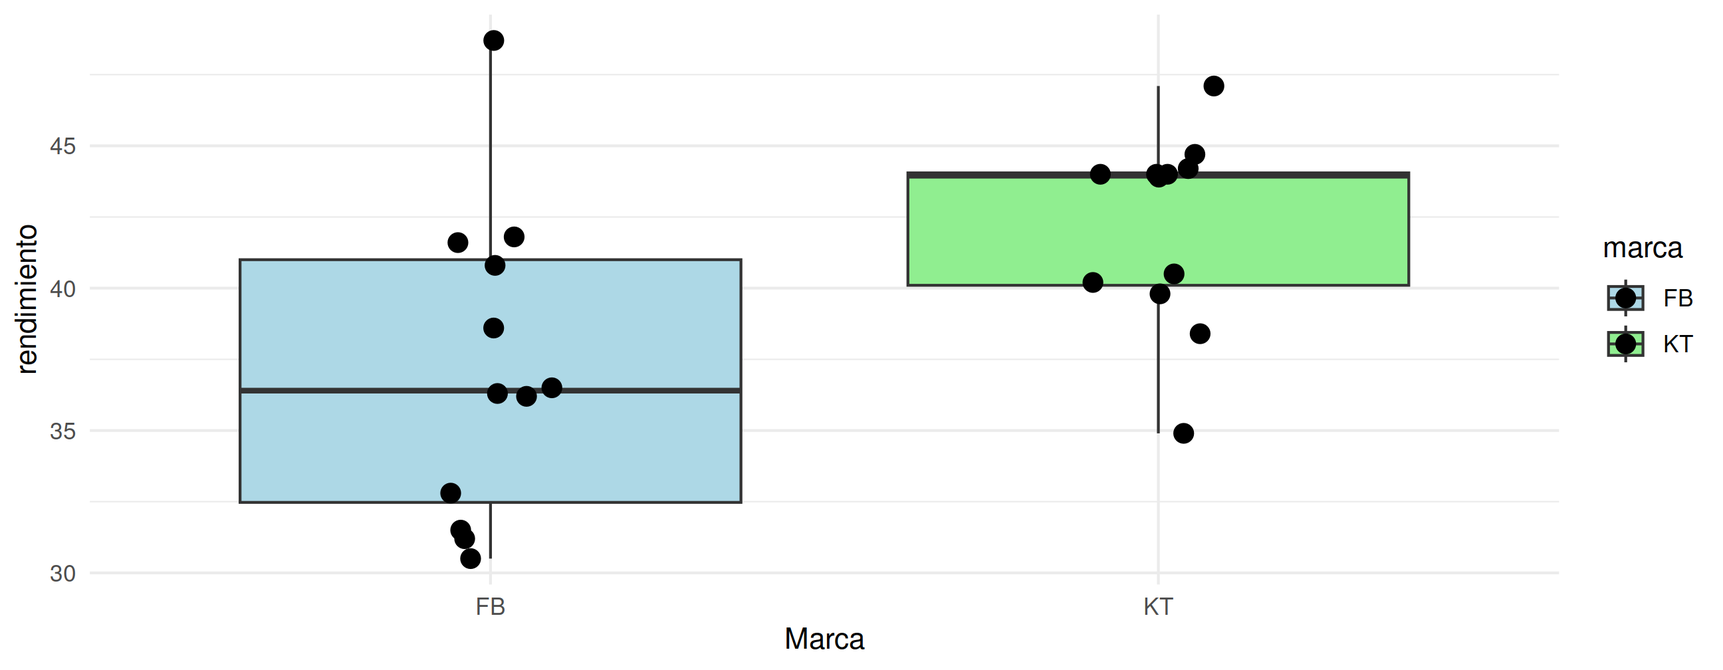
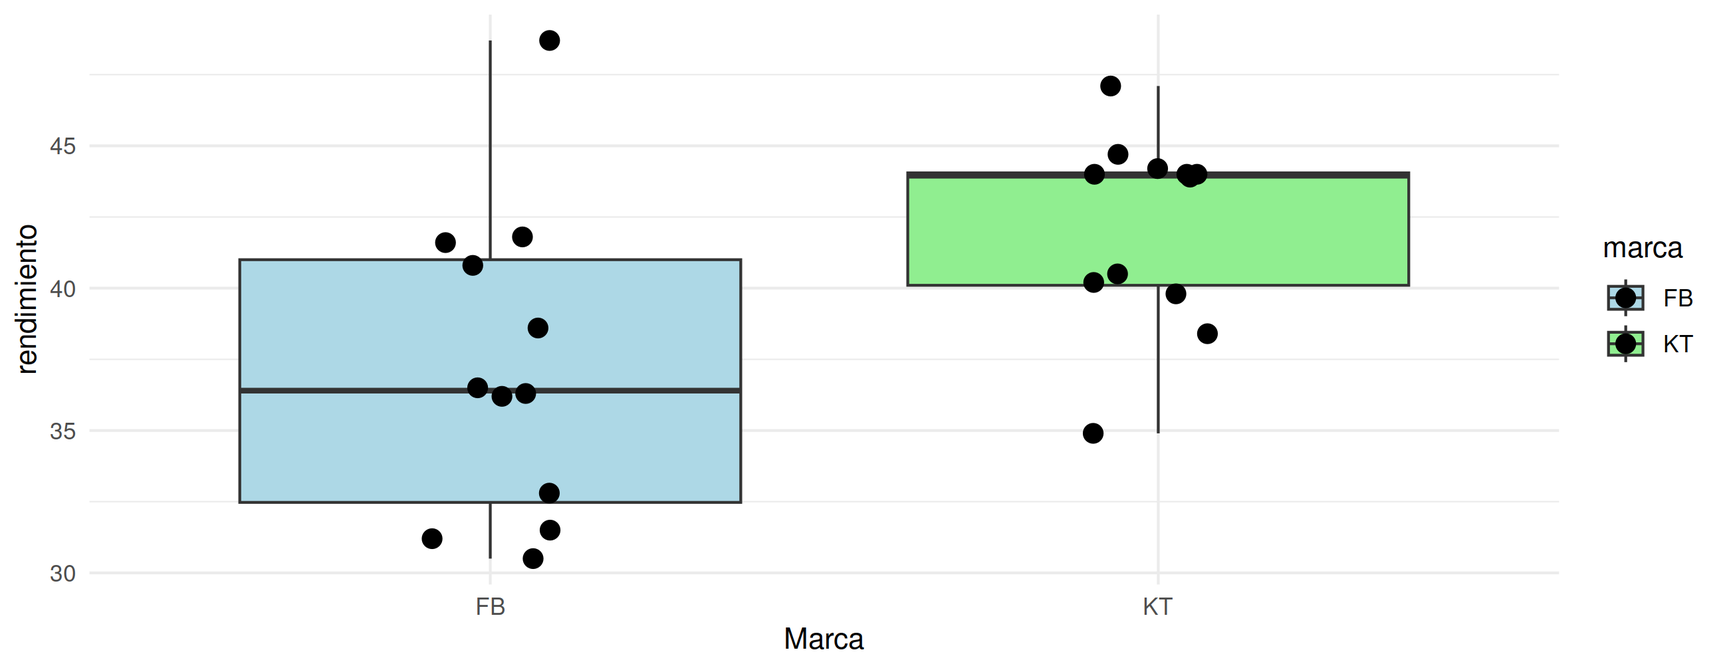
ajustes taller 431

diff --git a/docs/codigo12.html b/docs/codigo12.html
@@ -653,7 +653,7 @@ ft1 &lt;- ft1 %&gt;%
     width(j = 1,  width = 2) %&gt;%
     width(j = 2, width = 1)
 ft1</code></pre>
-<div class="tabwid"><style>.cl-ca4f9e02{}.cl-ca4ad46c{font-family:'DejaVu Sans';font-size:11pt;font-weight:normal;font-style:normal;text-decoration:none;color:rgba(0, 0, 0, 1.00);background-color:transparent;}.cl-ca4d700a{margin:0;text-align:left;border-bottom: 0 solid rgba(0, 0, 0, 1.00);border-top: 0 solid rgba(0, 0, 0, 1.00);border-left: 0 solid rgba(0, 0, 0, 1.00);border-right: 0 solid rgba(0, 0, 0, 1.00);padding-bottom:5pt;padding-top:5pt;padding-left:5pt;padding-right:5pt;line-height: 1;background-color:transparent;}.cl-ca4d701e{margin:0;text-align:right;border-bottom: 0 solid rgba(0, 0, 0, 1.00);border-top: 0 solid rgba(0, 0, 0, 1.00);border-left: 0 solid rgba(0, 0, 0, 1.00);border-right: 0 solid rgba(0, 0, 0, 1.00);padding-bottom:5pt;padding-top:5pt;padding-left:5pt;padding-right:5pt;line-height: 1;background-color:transparent;}.cl-ca4d827a{width:2in;background-color:transparent;vertical-align: middle;border-bottom: 1.5pt solid rgba(102, 102, 102, 1.00);border-top: 1.5pt solid rgba(102, 102, 102, 1.00);border-left: 0 solid rgba(0, 0, 0, 1.00);border-right: 0 solid rgba(0, 0, 0, 1.00);margin-bottom:0;margin-top:0;margin-left:0;margin-right:0;}.cl-ca4d827b{width:1in;background-color:transparent;vertical-align: middle;border-bottom: 1.5pt solid rgba(102, 102, 102, 1.00);border-top: 1.5pt solid rgba(102, 102, 102, 1.00);border-left: 0 solid rgba(0, 0, 0, 1.00);border-right: 0 solid rgba(0, 0, 0, 1.00);margin-bottom:0;margin-top:0;margin-left:0;margin-right:0;}.cl-ca4d8284{width:2in;background-color:transparent;vertical-align: middle;border-bottom: 0 solid rgba(0, 0, 0, 1.00);border-top: 0 solid rgba(0, 0, 0, 1.00);border-left: 0 solid rgba(0, 0, 0, 1.00);border-right: 0 solid rgba(0, 0, 0, 1.00);margin-bottom:0;margin-top:0;margin-left:0;margin-right:0;}.cl-ca4d8285{width:1in;background-color:transparent;vertical-align: middle;border-bottom: 0 solid rgba(0, 0, 0, 1.00);border-top: 0 solid rgba(0, 0, 0, 1.00);border-left: 0 solid rgba(0, 0, 0, 1.00);border-right: 0 solid rgba(0, 0, 0, 1.00);margin-bottom:0;margin-top:0;margin-left:0;margin-right:0;}.cl-ca4d828e{width:2in;background-color:transparent;vertical-align: middle;border-bottom: 1.5pt solid rgba(102, 102, 102, 1.00);border-top: 0 solid rgba(0, 0, 0, 1.00);border-left: 0 solid rgba(0, 0, 0, 1.00);border-right: 0 solid rgba(0, 0, 0, 1.00);margin-bottom:0;margin-top:0;margin-left:0;margin-right:0;}.cl-ca4d828f{width:1in;background-color:transparent;vertical-align: middle;border-bottom: 1.5pt solid rgba(102, 102, 102, 1.00);border-top: 0 solid rgba(0, 0, 0, 1.00);border-left: 0 solid rgba(0, 0, 0, 1.00);border-right: 0 solid rgba(0, 0, 0, 1.00);margin-bottom:0;margin-top:0;margin-left:0;margin-right:0;}</style><table data-quarto-disable-processing='true' class='cl-ca4f9e02'><thead><tr style="overflow-wrap:break-word;"><th class="cl-ca4d827a"><p class="cl-ca4d700a"><span class="cl-ca4ad46c">Tipo de tarjeta</span></p></th><th class="cl-ca4d827b"><p class="cl-ca4d701e"><span class="cl-ca4ad46c">Frecuencia Absoluta</span></p></th></tr></thead><tbody><tr style="overflow-wrap:break-word;"><td class="cl-ca4d8284"><p class="cl-ca4d700a"><span class="cl-ca4ad46c">American Express</span></p></td><td class="cl-ca4d8285"><p class="cl-ca4d701e"><span class="cl-ca4ad46c">4</span></p></td></tr><tr style="overflow-wrap:break-word;"><td class="cl-ca4d8284"><p class="cl-ca4d700a"><span class="cl-ca4ad46c">Discover</span></p></td><td class="cl-ca4d8285"><p class="cl-ca4d701e"><span class="cl-ca4ad46c">8</span></p></td></tr><tr style="overflow-wrap:break-word;"><td class="cl-ca4d8284"><p class="cl-ca4d700a"><span class="cl-ca4ad46c">MasterCard</span></p></td><td class="cl-ca4d8285"><p class="cl-ca4d701e"><span class="cl-ca4ad46c">28</span></p></td></tr><tr style="overflow-wrap:break-word;"><td class="cl-ca4d8284"><p class="cl-ca4d700a"><span class="cl-ca4ad46c">Star Card</span></p></td><td class="cl-ca4d8285"><p class="cl-ca4d701e"><span class="cl-ca4ad46c">140</span></p></td></tr><tr style="overflow-wrap:break-word;"><td class="cl-ca4d828e"><p class="cl-ca4d700a"><span class="cl-ca4ad46c">Visa</span></p></td><td class="cl-ca4d828f"><p class="cl-ca4d701e"><span class="cl-ca4ad46c">20</span></p></td></tr></tbody></table></div>
+<div class="tabwid"><style>.cl-b287e0b0{}.cl-b28361e8{font-family:'DejaVu Sans';font-size:11pt;font-weight:normal;font-style:normal;text-decoration:none;color:rgba(0, 0, 0, 1.00);background-color:transparent;}.cl-b285dcd4{margin:0;text-align:left;border-bottom: 0 solid rgba(0, 0, 0, 1.00);border-top: 0 solid rgba(0, 0, 0, 1.00);border-left: 0 solid rgba(0, 0, 0, 1.00);border-right: 0 solid rgba(0, 0, 0, 1.00);padding-bottom:5pt;padding-top:5pt;padding-left:5pt;padding-right:5pt;line-height: 1;background-color:transparent;}.cl-b285dcde{margin:0;text-align:right;border-bottom: 0 solid rgba(0, 0, 0, 1.00);border-top: 0 solid rgba(0, 0, 0, 1.00);border-left: 0 solid rgba(0, 0, 0, 1.00);border-right: 0 solid rgba(0, 0, 0, 1.00);padding-bottom:5pt;padding-top:5pt;padding-left:5pt;padding-right:5pt;line-height: 1;background-color:transparent;}.cl-b285ed50{width:2in;background-color:transparent;vertical-align: middle;border-bottom: 1.5pt solid rgba(102, 102, 102, 1.00);border-top: 1.5pt solid rgba(102, 102, 102, 1.00);border-left: 0 solid rgba(0, 0, 0, 1.00);border-right: 0 solid rgba(0, 0, 0, 1.00);margin-bottom:0;margin-top:0;margin-left:0;margin-right:0;}.cl-b285ed51{width:1in;background-color:transparent;vertical-align: middle;border-bottom: 1.5pt solid rgba(102, 102, 102, 1.00);border-top: 1.5pt solid rgba(102, 102, 102, 1.00);border-left: 0 solid rgba(0, 0, 0, 1.00);border-right: 0 solid rgba(0, 0, 0, 1.00);margin-bottom:0;margin-top:0;margin-left:0;margin-right:0;}.cl-b285ed5a{width:2in;background-color:transparent;vertical-align: middle;border-bottom: 0 solid rgba(0, 0, 0, 1.00);border-top: 0 solid rgba(0, 0, 0, 1.00);border-left: 0 solid rgba(0, 0, 0, 1.00);border-right: 0 solid rgba(0, 0, 0, 1.00);margin-bottom:0;margin-top:0;margin-left:0;margin-right:0;}.cl-b285ed5b{width:1in;background-color:transparent;vertical-align: middle;border-bottom: 0 solid rgba(0, 0, 0, 1.00);border-top: 0 solid rgba(0, 0, 0, 1.00);border-left: 0 solid rgba(0, 0, 0, 1.00);border-right: 0 solid rgba(0, 0, 0, 1.00);margin-bottom:0;margin-top:0;margin-left:0;margin-right:0;}.cl-b285ed64{width:2in;background-color:transparent;vertical-align: middle;border-bottom: 1.5pt solid rgba(102, 102, 102, 1.00);border-top: 0 solid rgba(0, 0, 0, 1.00);border-left: 0 solid rgba(0, 0, 0, 1.00);border-right: 0 solid rgba(0, 0, 0, 1.00);margin-bottom:0;margin-top:0;margin-left:0;margin-right:0;}.cl-b285ed65{width:1in;background-color:transparent;vertical-align: middle;border-bottom: 1.5pt solid rgba(102, 102, 102, 1.00);border-top: 0 solid rgba(0, 0, 0, 1.00);border-left: 0 solid rgba(0, 0, 0, 1.00);border-right: 0 solid rgba(0, 0, 0, 1.00);margin-bottom:0;margin-top:0;margin-left:0;margin-right:0;}</style><table data-quarto-disable-processing='true' class='cl-b287e0b0'><thead><tr style="overflow-wrap:break-word;"><th class="cl-b285ed50"><p class="cl-b285dcd4"><span class="cl-b28361e8">Tipo de tarjeta</span></p></th><th class="cl-b285ed51"><p class="cl-b285dcde"><span class="cl-b28361e8">Frecuencia Absoluta</span></p></th></tr></thead><tbody><tr style="overflow-wrap:break-word;"><td class="cl-b285ed5a"><p class="cl-b285dcd4"><span class="cl-b28361e8">American Express</span></p></td><td class="cl-b285ed5b"><p class="cl-b285dcde"><span class="cl-b28361e8">4</span></p></td></tr><tr style="overflow-wrap:break-word;"><td class="cl-b285ed5a"><p class="cl-b285dcd4"><span class="cl-b28361e8">Discover</span></p></td><td class="cl-b285ed5b"><p class="cl-b285dcde"><span class="cl-b28361e8">8</span></p></td></tr><tr style="overflow-wrap:break-word;"><td class="cl-b285ed5a"><p class="cl-b285dcd4"><span class="cl-b28361e8">MasterCard</span></p></td><td class="cl-b285ed5b"><p class="cl-b285dcde"><span class="cl-b28361e8">28</span></p></td></tr><tr style="overflow-wrap:break-word;"><td class="cl-b285ed5a"><p class="cl-b285dcd4"><span class="cl-b28361e8">Star Card</span></p></td><td class="cl-b285ed5b"><p class="cl-b285dcde"><span class="cl-b28361e8">140</span></p></td></tr><tr style="overflow-wrap:break-word;"><td class="cl-b285ed64"><p class="cl-b285dcd4"><span class="cl-b28361e8">Visa</span></p></td><td class="cl-b285ed65"><p class="cl-b285dcde"><span class="cl-b28361e8">20</span></p></td></tr></tbody></table></div>
 <p><br/></p>
 <p>El resultado corresponde a un conteo de cada uno de los valores de la
 variable. En caso de que se requiera calcular la proporción que
@@ -678,7 +678,7 @@ ft2 &lt;- ft2 %&gt;%
     width(j = 1,  width = 2) %&gt;%
     width(j = 2, width = 1)
 ft2</code></pre>
-<div class="tabwid"><style>.cl-ca67009c{}.cl-ca57e9b8{font-family:'Helvetica';font-size:10pt;font-weight:normal;font-style:normal;text-decoration:none;color:rgba(51, 51, 51, 1.00);background-color:transparent;}.cl-ca655e5e{margin:0;text-align:left;border-bottom: 0 solid rgba(0, 0, 0, 1.00);border-top: 0 solid rgba(0, 0, 0, 1.00);border-left: 0 solid rgba(0, 0, 0, 1.00);border-right: 0 solid rgba(0, 0, 0, 1.00);padding-bottom:3pt;padding-top:3pt;padding-left:4pt;padding-right:4pt;line-height: 1;background-color:transparent;}.cl-ca655e68{margin:0;text-align:right;border-bottom: 0 solid rgba(0, 0, 0, 1.00);border-top: 0 solid rgba(0, 0, 0, 1.00);border-left: 0 solid rgba(0, 0, 0, 1.00);border-right: 0 solid rgba(0, 0, 0, 1.00);padding-bottom:3pt;padding-top:3pt;padding-left:4pt;padding-right:4pt;line-height: 1;background-color:transparent;}.cl-ca656c46{width:2in;background-color:transparent;vertical-align: middle;border-bottom: 1.5pt solid rgba(190, 190, 190, 1.00);border-top: 1.5pt solid rgba(190, 190, 190, 1.00);border-left: 0 solid rgba(0, 0, 0, 1.00);border-right: 0 solid rgba(0, 0, 0, 1.00);margin-bottom:0;margin-top:0;margin-left:0;margin-right:0;}.cl-ca656c47{width:1in;background-color:transparent;vertical-align: middle;border-bottom: 1.5pt solid rgba(190, 190, 190, 1.00);border-top: 1.5pt solid rgba(190, 190, 190, 1.00);border-left: 0 solid rgba(0, 0, 0, 1.00);border-right: 0 solid rgba(0, 0, 0, 1.00);margin-bottom:0;margin-top:0;margin-left:0;margin-right:0;}.cl-ca656c48{width:2in;background-color:transparent;vertical-align: middle;border-bottom: 0 solid rgba(0, 0, 0, 1.00);border-top: 0 solid rgba(0, 0, 0, 1.00);border-left: 0 solid rgba(0, 0, 0, 1.00);border-right: 0 solid rgba(0, 0, 0, 1.00);margin-bottom:0;margin-top:0;margin-left:0;margin-right:0;}.cl-ca656c50{width:1in;background-color:transparent;vertical-align: middle;border-bottom: 0 solid rgba(0, 0, 0, 1.00);border-top: 0 solid rgba(0, 0, 0, 1.00);border-left: 0 solid rgba(0, 0, 0, 1.00);border-right: 0 solid rgba(0, 0, 0, 1.00);margin-bottom:0;margin-top:0;margin-left:0;margin-right:0;}.cl-ca656c51{width:2in;background-color:transparent;vertical-align: middle;border-bottom: 1.5pt solid rgba(190, 190, 190, 1.00);border-top: 0 solid rgba(0, 0, 0, 1.00);border-left: 0 solid rgba(0, 0, 0, 1.00);border-right: 0 solid rgba(0, 0, 0, 1.00);margin-bottom:0;margin-top:0;margin-left:0;margin-right:0;}.cl-ca656c5a{width:1in;background-color:transparent;vertical-align: middle;border-bottom: 1.5pt solid rgba(190, 190, 190, 1.00);border-top: 0 solid rgba(0, 0, 0, 1.00);border-left: 0 solid rgba(0, 0, 0, 1.00);border-right: 0 solid rgba(0, 0, 0, 1.00);margin-bottom:0;margin-top:0;margin-left:0;margin-right:0;}</style><table data-quarto-disable-processing='true' class='cl-ca67009c'><thead><tr style="overflow-wrap:break-word;"><th class="cl-ca656c46"><p class="cl-ca655e5e"><span class="cl-ca57e9b8">Tipo de tarjeta</span></p></th><th class="cl-ca656c47"><p class="cl-ca655e68"><span class="cl-ca57e9b8">Frecuencia relativa</span></p></th></tr></thead><tbody><tr style="overflow-wrap:break-word;"><td class="cl-ca656c48"><p class="cl-ca655e5e"><span class="cl-ca57e9b8">American Express</span></p></td><td class="cl-ca656c50"><p class="cl-ca655e68"><span class="cl-ca57e9b8">0.02</span></p></td></tr><tr style="overflow-wrap:break-word;"><td class="cl-ca656c48"><p class="cl-ca655e5e"><span class="cl-ca57e9b8">Discover</span></p></td><td class="cl-ca656c50"><p class="cl-ca655e68"><span class="cl-ca57e9b8">0.04</span></p></td></tr><tr style="overflow-wrap:break-word;"><td class="cl-ca656c48"><p class="cl-ca655e5e"><span class="cl-ca57e9b8">MasterCard</span></p></td><td class="cl-ca656c50"><p class="cl-ca655e68"><span class="cl-ca57e9b8">0.14</span></p></td></tr><tr style="overflow-wrap:break-word;"><td class="cl-ca656c48"><p class="cl-ca655e5e"><span class="cl-ca57e9b8">Star Card</span></p></td><td class="cl-ca656c50"><p class="cl-ca655e68"><span class="cl-ca57e9b8">0.70</span></p></td></tr><tr style="overflow-wrap:break-word;"><td class="cl-ca656c51"><p class="cl-ca655e5e"><span class="cl-ca57e9b8">Visa</span></p></td><td class="cl-ca656c5a"><p class="cl-ca655e68"><span class="cl-ca57e9b8">0.10</span></p></td></tr></tbody></table></div>
+<div class="tabwid"><style>.cl-b29e0ce6{}.cl-b28f1718{font-family:'Helvetica';font-size:10pt;font-weight:normal;font-style:normal;text-decoration:none;color:rgba(51, 51, 51, 1.00);background-color:transparent;}.cl-b29c76b0{margin:0;text-align:left;border-bottom: 0 solid rgba(0, 0, 0, 1.00);border-top: 0 solid rgba(0, 0, 0, 1.00);border-left: 0 solid rgba(0, 0, 0, 1.00);border-right: 0 solid rgba(0, 0, 0, 1.00);padding-bottom:3pt;padding-top:3pt;padding-left:4pt;padding-right:4pt;line-height: 1;background-color:transparent;}.cl-b29c76ba{margin:0;text-align:right;border-bottom: 0 solid rgba(0, 0, 0, 1.00);border-top: 0 solid rgba(0, 0, 0, 1.00);border-left: 0 solid rgba(0, 0, 0, 1.00);border-right: 0 solid rgba(0, 0, 0, 1.00);padding-bottom:3pt;padding-top:3pt;padding-left:4pt;padding-right:4pt;line-height: 1;background-color:transparent;}.cl-b29c848e{width:2in;background-color:transparent;vertical-align: middle;border-bottom: 1.5pt solid rgba(190, 190, 190, 1.00);border-top: 1.5pt solid rgba(190, 190, 190, 1.00);border-left: 0 solid rgba(0, 0, 0, 1.00);border-right: 0 solid rgba(0, 0, 0, 1.00);margin-bottom:0;margin-top:0;margin-left:0;margin-right:0;}.cl-b29c848f{width:1in;background-color:transparent;vertical-align: middle;border-bottom: 1.5pt solid rgba(190, 190, 190, 1.00);border-top: 1.5pt solid rgba(190, 190, 190, 1.00);border-left: 0 solid rgba(0, 0, 0, 1.00);border-right: 0 solid rgba(0, 0, 0, 1.00);margin-bottom:0;margin-top:0;margin-left:0;margin-right:0;}.cl-b29c8498{width:2in;background-color:transparent;vertical-align: middle;border-bottom: 0 solid rgba(0, 0, 0, 1.00);border-top: 0 solid rgba(0, 0, 0, 1.00);border-left: 0 solid rgba(0, 0, 0, 1.00);border-right: 0 solid rgba(0, 0, 0, 1.00);margin-bottom:0;margin-top:0;margin-left:0;margin-right:0;}.cl-b29c8499{width:1in;background-color:transparent;vertical-align: middle;border-bottom: 0 solid rgba(0, 0, 0, 1.00);border-top: 0 solid rgba(0, 0, 0, 1.00);border-left: 0 solid rgba(0, 0, 0, 1.00);border-right: 0 solid rgba(0, 0, 0, 1.00);margin-bottom:0;margin-top:0;margin-left:0;margin-right:0;}.cl-b29c849a{width:2in;background-color:transparent;vertical-align: middle;border-bottom: 1.5pt solid rgba(190, 190, 190, 1.00);border-top: 0 solid rgba(0, 0, 0, 1.00);border-left: 0 solid rgba(0, 0, 0, 1.00);border-right: 0 solid rgba(0, 0, 0, 1.00);margin-bottom:0;margin-top:0;margin-left:0;margin-right:0;}.cl-b29c84a2{width:1in;background-color:transparent;vertical-align: middle;border-bottom: 1.5pt solid rgba(190, 190, 190, 1.00);border-top: 0 solid rgba(0, 0, 0, 1.00);border-left: 0 solid rgba(0, 0, 0, 1.00);border-right: 0 solid rgba(0, 0, 0, 1.00);margin-bottom:0;margin-top:0;margin-left:0;margin-right:0;}</style><table data-quarto-disable-processing='true' class='cl-b29e0ce6'><thead><tr style="overflow-wrap:break-word;"><th class="cl-b29c848e"><p class="cl-b29c76b0"><span class="cl-b28f1718">Tipo de tarjeta</span></p></th><th class="cl-b29c848f"><p class="cl-b29c76ba"><span class="cl-b28f1718">Frecuencia relativa</span></p></th></tr></thead><tbody><tr style="overflow-wrap:break-word;"><td class="cl-b29c8498"><p class="cl-b29c76b0"><span class="cl-b28f1718">American Express</span></p></td><td class="cl-b29c8499"><p class="cl-b29c76ba"><span class="cl-b28f1718">0.02</span></p></td></tr><tr style="overflow-wrap:break-word;"><td class="cl-b29c8498"><p class="cl-b29c76b0"><span class="cl-b28f1718">Discover</span></p></td><td class="cl-b29c8499"><p class="cl-b29c76ba"><span class="cl-b28f1718">0.04</span></p></td></tr><tr style="overflow-wrap:break-word;"><td class="cl-b29c8498"><p class="cl-b29c76b0"><span class="cl-b28f1718">MasterCard</span></p></td><td class="cl-b29c8499"><p class="cl-b29c76ba"><span class="cl-b28f1718">0.14</span></p></td></tr><tr style="overflow-wrap:break-word;"><td class="cl-b29c8498"><p class="cl-b29c76b0"><span class="cl-b28f1718">Star Card</span></p></td><td class="cl-b29c8499"><p class="cl-b29c76ba"><span class="cl-b28f1718">0.70</span></p></td></tr><tr style="overflow-wrap:break-word;"><td class="cl-b29c849a"><p class="cl-b29c76b0"><span class="cl-b28f1718">Visa</span></p></td><td class="cl-b29c84a2"><p class="cl-b29c76ba"><span class="cl-b28f1718">0.10</span></p></td></tr></tbody></table></div>
 <p><br/></p>
 <p>Si utilizamos la función <code>freq</code> del paquete
 <code>summarytools</code>, la salida es una tabla más elaborada</p>
@@ -1032,7 +1032,7 @@ df</code></pre>
 <pre class="r"><code># colnames(df1)=c(&quot;Id&quot;, &quot;Nombre&quot;, &quot;Edad&quot;,&quot;grado&quot;, &quot;Nota1&quot;, &quot;Nota2&quot;, &quot;Nota_Final&quot;, &quot;Entrevista&quot;)
 df1=flextable(df)
 df1</code></pre>
-<div class="tabwid"><style>.cl-ca96bb84{}.cl-ca93445e{font-family:'Helvetica';font-size:10pt;font-weight:normal;font-style:normal;text-decoration:none;color:rgba(51, 51, 51, 1.00);background-color:transparent;}.cl-ca94b906{margin:0;text-align:right;border-bottom: 0 solid rgba(0, 0, 0, 1.00);border-top: 0 solid rgba(0, 0, 0, 1.00);border-left: 0 solid rgba(0, 0, 0, 1.00);border-right: 0 solid rgba(0, 0, 0, 1.00);padding-bottom:3pt;padding-top:3pt;padding-left:4pt;padding-right:4pt;line-height: 1;background-color:transparent;}.cl-ca94b91a{margin:0;text-align:left;border-bottom: 0 solid rgba(0, 0, 0, 1.00);border-top: 0 solid rgba(0, 0, 0, 1.00);border-left: 0 solid rgba(0, 0, 0, 1.00);border-right: 0 solid rgba(0, 0, 0, 1.00);padding-bottom:3pt;padding-top:3pt;padding-left:4pt;padding-right:4pt;line-height: 1;background-color:transparent;}.cl-ca94c964{width:0.75in;background-color:transparent;vertical-align: middle;border-bottom: 1.5pt solid rgba(190, 190, 190, 1.00);border-top: 1.5pt solid rgba(190, 190, 190, 1.00);border-left: 0 solid rgba(0, 0, 0, 1.00);border-right: 0 solid rgba(0, 0, 0, 1.00);margin-bottom:0;margin-top:0;margin-left:0;margin-right:0;}.cl-ca94c96e{width:0.75in;background-color:transparent;vertical-align: middle;border-bottom: 1.5pt solid rgba(190, 190, 190, 1.00);border-top: 1.5pt solid rgba(190, 190, 190, 1.00);border-left: 0 solid rgba(0, 0, 0, 1.00);border-right: 0 solid rgba(0, 0, 0, 1.00);margin-bottom:0;margin-top:0;margin-left:0;margin-right:0;}.cl-ca94c96f{width:0.75in;background-color:transparent;vertical-align: middle;border-bottom: 0 solid rgba(0, 0, 0, 1.00);border-top: 0 solid rgba(0, 0, 0, 1.00);border-left: 0 solid rgba(0, 0, 0, 1.00);border-right: 0 solid rgba(0, 0, 0, 1.00);margin-bottom:0;margin-top:0;margin-left:0;margin-right:0;}.cl-ca94c978{width:0.75in;background-color:transparent;vertical-align: middle;border-bottom: 0 solid rgba(0, 0, 0, 1.00);border-top: 0 solid rgba(0, 0, 0, 1.00);border-left: 0 solid rgba(0, 0, 0, 1.00);border-right: 0 solid rgba(0, 0, 0, 1.00);margin-bottom:0;margin-top:0;margin-left:0;margin-right:0;}.cl-ca94c979{width:0.75in;background-color:transparent;vertical-align: middle;border-bottom: 1.5pt solid rgba(190, 190, 190, 1.00);border-top: 0 solid rgba(0, 0, 0, 1.00);border-left: 0 solid rgba(0, 0, 0, 1.00);border-right: 0 solid rgba(0, 0, 0, 1.00);margin-bottom:0;margin-top:0;margin-left:0;margin-right:0;}.cl-ca94c97a{width:0.75in;background-color:transparent;vertical-align: middle;border-bottom: 1.5pt solid rgba(190, 190, 190, 1.00);border-top: 0 solid rgba(0, 0, 0, 1.00);border-left: 0 solid rgba(0, 0, 0, 1.00);border-right: 0 solid rgba(0, 0, 0, 1.00);margin-bottom:0;margin-top:0;margin-left:0;margin-right:0;}</style><table data-quarto-disable-processing='true' class='cl-ca96bb84'><thead><tr style="overflow-wrap:break-word;"><th class="cl-ca94c964"><p class="cl-ca94b906"><span class="cl-ca93445e">id</span></p></th><th class="cl-ca94c96e"><p class="cl-ca94b91a"><span class="cl-ca93445e">nombre</span></p></th><th class="cl-ca94c964"><p class="cl-ca94b906"><span class="cl-ca93445e">edad</span></p></th><th class="cl-ca94c96e"><p class="cl-ca94b91a"><span class="cl-ca93445e">grado</span></p></th><th class="cl-ca94c964"><p class="cl-ca94b906"><span class="cl-ca93445e">Examen1</span></p></th><th class="cl-ca94c964"><p class="cl-ca94b906"><span class="cl-ca93445e">Examen2</span></p></th><th class="cl-ca94c964"><p class="cl-ca94b906"><span class="cl-ca93445e">Promedio</span></p></th><th class="cl-ca94c964"><p class="cl-ca94b906"><span class="cl-ca93445e">Entrevista</span></p></th></tr></thead><tbody><tr style="overflow-wrap:break-word;"><td class="cl-ca94c96f"><p class="cl-ca94b906"><span class="cl-ca93445e">1</span></p></td><td class="cl-ca94c978"><p class="cl-ca94b91a"><span class="cl-ca93445e">Juan</span></p></td><td class="cl-ca94c96f"><p class="cl-ca94b906"><span class="cl-ca93445e">20</span></p></td><td class="cl-ca94c978"><p class="cl-ca94b91a"><span class="cl-ca93445e">C</span></p></td><td class="cl-ca94c96f"><p class="cl-ca94b906"><span class="cl-ca93445e">3.8</span></p></td><td class="cl-ca94c96f"><p class="cl-ca94b906"><span class="cl-ca93445e">3.9</span></p></td><td class="cl-ca94c96f"><p class="cl-ca94b906"><span class="cl-ca93445e">3.9</span></p></td><td class="cl-ca94c96f"><p class="cl-ca94b906"><span class="cl-ca93445e">TRUE</span></p></td></tr><tr style="overflow-wrap:break-word;"><td class="cl-ca94c96f"><p class="cl-ca94b906"><span class="cl-ca93445e">2</span></p></td><td class="cl-ca94c978"><p class="cl-ca94b91a"><span class="cl-ca93445e">Carlos</span></p></td><td class="cl-ca94c96f"><p class="cl-ca94b906"><span class="cl-ca93445e">25</span></p></td><td class="cl-ca94c978"><p class="cl-ca94b91a"><span class="cl-ca93445e">A</span></p></td><td class="cl-ca94c96f"><p class="cl-ca94b906"><span class="cl-ca93445e">4.1</span></p></td><td class="cl-ca94c96f"><p class="cl-ca94b906"><span class="cl-ca93445e">3.9</span></p></td><td class="cl-ca94c96f"><p class="cl-ca94b906"><span class="cl-ca93445e">4.0</span></p></td><td class="cl-ca94c96f"><p class="cl-ca94b906"><span class="cl-ca93445e">FALSE</span></p></td></tr><tr style="overflow-wrap:break-word;"><td class="cl-ca94c96f"><p class="cl-ca94b906"><span class="cl-ca93445e">3</span></p></td><td class="cl-ca94c978"><p class="cl-ca94b91a"><span class="cl-ca93445e">James</span></p></td><td class="cl-ca94c96f"><p class="cl-ca94b906"><span class="cl-ca93445e">22</span></p></td><td class="cl-ca94c978"><p class="cl-ca94b91a"><span class="cl-ca93445e">A</span></p></td><td class="cl-ca94c96f"><p class="cl-ca94b906"><span class="cl-ca93445e">4.0</span></p></td><td class="cl-ca94c96f"><p class="cl-ca94b906"><span class="cl-ca93445e">4.0</span></p></td><td class="cl-ca94c96f"><p class="cl-ca94b906"><span class="cl-ca93445e">4.1</span></p></td><td class="cl-ca94c96f"><p class="cl-ca94b906"><span class="cl-ca93445e">TRUE</span></p></td></tr><tr style="overflow-wrap:break-word;"><td class="cl-ca94c96f"><p class="cl-ca94b906"><span class="cl-ca93445e">4</span></p></td><td class="cl-ca94c978"><p class="cl-ca94b91a"><span class="cl-ca93445e">David</span></p></td><td class="cl-ca94c96f"><p class="cl-ca94b906"><span class="cl-ca93445e">28</span></p></td><td class="cl-ca94c978"><p class="cl-ca94b91a"><span class="cl-ca93445e">C</span></p></td><td class="cl-ca94c96f"><p class="cl-ca94b906"><span class="cl-ca93445e">3.9</span></p></td><td class="cl-ca94c96f"><p class="cl-ca94b906"><span class="cl-ca93445e">3.9</span></p></td><td class="cl-ca94c96f"><p class="cl-ca94b906"><span class="cl-ca93445e">3.6</span></p></td><td class="cl-ca94c96f"><p class="cl-ca94b906"><span class="cl-ca93445e">FALSE</span></p></td></tr><tr style="overflow-wrap:break-word;"><td class="cl-ca94c96f"><p class="cl-ca94b906"><span class="cl-ca93445e">5</span></p></td><td class="cl-ca94c978"><p class="cl-ca94b91a"><span class="cl-ca93445e">Jenny</span></p></td><td class="cl-ca94c96f"><p class="cl-ca94b906"><span class="cl-ca93445e">21</span></p></td><td class="cl-ca94c978"><p class="cl-ca94b91a"><span class="cl-ca93445e">B</span></p></td><td class="cl-ca94c96f"><p class="cl-ca94b906"><span class="cl-ca93445e">4.0</span></p></td><td class="cl-ca94c96f"><p class="cl-ca94b906"><span class="cl-ca93445e">3.8</span></p></td><td class="cl-ca94c96f"><p class="cl-ca94b906"><span class="cl-ca93445e">3.7</span></p></td><td class="cl-ca94c96f"><p class="cl-ca94b906"><span class="cl-ca93445e">TRUE</span></p></td></tr><tr style="overflow-wrap:break-word;"><td class="cl-ca94c96f"><p class="cl-ca94b906"><span class="cl-ca93445e">6</span></p></td><td class="cl-ca94c978"><p class="cl-ca94b91a"><span class="cl-ca93445e">Harold</span></p></td><td class="cl-ca94c96f"><p class="cl-ca94b906"><span class="cl-ca93445e">23</span></p></td><td class="cl-ca94c978"><p class="cl-ca94b91a"><span class="cl-ca93445e">B</span></p></td><td class="cl-ca94c96f"><p class="cl-ca94b906"><span class="cl-ca93445e">4.3</span></p></td><td class="cl-ca94c96f"><p class="cl-ca94b906"><span class="cl-ca93445e">3.6</span></p></td><td class="cl-ca94c96f"><p class="cl-ca94b906"><span class="cl-ca93445e">4.6</span></p></td><td class="cl-ca94c96f"><p class="cl-ca94b906"><span class="cl-ca93445e">TRUE</span></p></td></tr><tr style="overflow-wrap:break-word;"><td class="cl-ca94c96f"><p class="cl-ca94b906"><span class="cl-ca93445e">7</span></p></td><td class="cl-ca94c978"><p class="cl-ca94b91a"><span class="cl-ca93445e">Leonardo</span></p></td><td class="cl-ca94c96f"><p class="cl-ca94b906"><span class="cl-ca93445e">25</span></p></td><td class="cl-ca94c978"><p class="cl-ca94b91a"><span class="cl-ca93445e">A</span></p></td><td class="cl-ca94c96f"><p class="cl-ca94b906"><span class="cl-ca93445e">3.6</span></p></td><td class="cl-ca94c96f"><p class="cl-ca94b906"><span class="cl-ca93445e">4.0</span></p></td><td class="cl-ca94c96f"><p class="cl-ca94b906"><span class="cl-ca93445e">3.5</span></p></td><td class="cl-ca94c96f"><p class="cl-ca94b906"><span class="cl-ca93445e">TRUE</span></p></td></tr><tr style="overflow-wrap:break-word;"><td class="cl-ca94c96f"><p class="cl-ca94b906"><span class="cl-ca93445e">8</span></p></td><td class="cl-ca94c978"><p class="cl-ca94b91a"><span class="cl-ca93445e">John</span></p></td><td class="cl-ca94c96f"><p class="cl-ca94b906"><span class="cl-ca93445e">20</span></p></td><td class="cl-ca94c978"><p class="cl-ca94b91a"><span class="cl-ca93445e">C</span></p></td><td class="cl-ca94c96f"><p class="cl-ca94b906"><span class="cl-ca93445e">3.7</span></p></td><td class="cl-ca94c96f"><p class="cl-ca94b906"><span class="cl-ca93445e">4.0</span></p></td><td class="cl-ca94c96f"><p class="cl-ca94b906"><span class="cl-ca93445e">3.6</span></p></td><td class="cl-ca94c96f"><p class="cl-ca94b906"><span class="cl-ca93445e">FALSE</span></p></td></tr><tr style="overflow-wrap:break-word;"><td class="cl-ca94c96f"><p class="cl-ca94b906"><span class="cl-ca93445e">9</span></p></td><td class="cl-ca94c978"><p class="cl-ca94b91a"><span class="cl-ca93445e">Ana</span></p></td><td class="cl-ca94c96f"><p class="cl-ca94b906"><span class="cl-ca93445e">21</span></p></td><td class="cl-ca94c978"><p class="cl-ca94b91a"><span class="cl-ca93445e">C</span></p></td><td class="cl-ca94c96f"><p class="cl-ca94b906"><span class="cl-ca93445e">3.8</span></p></td><td class="cl-ca94c96f"><p class="cl-ca94b906"><span class="cl-ca93445e">3.9</span></p></td><td class="cl-ca94c96f"><p class="cl-ca94b906"><span class="cl-ca93445e">3.8</span></p></td><td class="cl-ca94c96f"><p class="cl-ca94b906"><span class="cl-ca93445e">FALSE</span></p></td></tr><tr style="overflow-wrap:break-word;"><td class="cl-ca94c979"><p class="cl-ca94b906"><span class="cl-ca93445e">10</span></p></td><td class="cl-ca94c97a"><p class="cl-ca94b91a"><span class="cl-ca93445e">Luz</span></p></td><td class="cl-ca94c979"><p class="cl-ca94b906"><span class="cl-ca93445e">20</span></p></td><td class="cl-ca94c97a"><p class="cl-ca94b91a"><span class="cl-ca93445e">C</span></p></td><td class="cl-ca94c979"><p class="cl-ca94b906"><span class="cl-ca93445e">3.8</span></p></td><td class="cl-ca94c979"><p class="cl-ca94b906"><span class="cl-ca93445e">3.8</span></p></td><td class="cl-ca94c979"><p class="cl-ca94b906"><span class="cl-ca93445e">3.7</span></p></td><td class="cl-ca94c979"><p class="cl-ca94b906"><span class="cl-ca93445e">FALSE</span></p></td></tr></tbody></table></div>
+<div class="tabwid"><style>.cl-b2cd811a{}.cl-b2c9c278{font-family:'Helvetica';font-size:10pt;font-weight:normal;font-style:normal;text-decoration:none;color:rgba(51, 51, 51, 1.00);background-color:transparent;}.cl-b2cb56e2{margin:0;text-align:right;border-bottom: 0 solid rgba(0, 0, 0, 1.00);border-top: 0 solid rgba(0, 0, 0, 1.00);border-left: 0 solid rgba(0, 0, 0, 1.00);border-right: 0 solid rgba(0, 0, 0, 1.00);padding-bottom:3pt;padding-top:3pt;padding-left:4pt;padding-right:4pt;line-height: 1;background-color:transparent;}.cl-b2cb56ec{margin:0;text-align:left;border-bottom: 0 solid rgba(0, 0, 0, 1.00);border-top: 0 solid rgba(0, 0, 0, 1.00);border-left: 0 solid rgba(0, 0, 0, 1.00);border-right: 0 solid rgba(0, 0, 0, 1.00);padding-bottom:3pt;padding-top:3pt;padding-left:4pt;padding-right:4pt;line-height: 1;background-color:transparent;}.cl-b2cb68ee{width:0.75in;background-color:transparent;vertical-align: middle;border-bottom: 1.5pt solid rgba(190, 190, 190, 1.00);border-top: 1.5pt solid rgba(190, 190, 190, 1.00);border-left: 0 solid rgba(0, 0, 0, 1.00);border-right: 0 solid rgba(0, 0, 0, 1.00);margin-bottom:0;margin-top:0;margin-left:0;margin-right:0;}.cl-b2cb68f8{width:0.75in;background-color:transparent;vertical-align: middle;border-bottom: 1.5pt solid rgba(190, 190, 190, 1.00);border-top: 1.5pt solid rgba(190, 190, 190, 1.00);border-left: 0 solid rgba(0, 0, 0, 1.00);border-right: 0 solid rgba(0, 0, 0, 1.00);margin-bottom:0;margin-top:0;margin-left:0;margin-right:0;}.cl-b2cb6902{width:0.75in;background-color:transparent;vertical-align: middle;border-bottom: 0 solid rgba(0, 0, 0, 1.00);border-top: 0 solid rgba(0, 0, 0, 1.00);border-left: 0 solid rgba(0, 0, 0, 1.00);border-right: 0 solid rgba(0, 0, 0, 1.00);margin-bottom:0;margin-top:0;margin-left:0;margin-right:0;}.cl-b2cb6903{width:0.75in;background-color:transparent;vertical-align: middle;border-bottom: 0 solid rgba(0, 0, 0, 1.00);border-top: 0 solid rgba(0, 0, 0, 1.00);border-left: 0 solid rgba(0, 0, 0, 1.00);border-right: 0 solid rgba(0, 0, 0, 1.00);margin-bottom:0;margin-top:0;margin-left:0;margin-right:0;}.cl-b2cb690c{width:0.75in;background-color:transparent;vertical-align: middle;border-bottom: 1.5pt solid rgba(190, 190, 190, 1.00);border-top: 0 solid rgba(0, 0, 0, 1.00);border-left: 0 solid rgba(0, 0, 0, 1.00);border-right: 0 solid rgba(0, 0, 0, 1.00);margin-bottom:0;margin-top:0;margin-left:0;margin-right:0;}.cl-b2cb690d{width:0.75in;background-color:transparent;vertical-align: middle;border-bottom: 1.5pt solid rgba(190, 190, 190, 1.00);border-top: 0 solid rgba(0, 0, 0, 1.00);border-left: 0 solid rgba(0, 0, 0, 1.00);border-right: 0 solid rgba(0, 0, 0, 1.00);margin-bottom:0;margin-top:0;margin-left:0;margin-right:0;}</style><table data-quarto-disable-processing='true' class='cl-b2cd811a'><thead><tr style="overflow-wrap:break-word;"><th class="cl-b2cb68ee"><p class="cl-b2cb56e2"><span class="cl-b2c9c278">id</span></p></th><th class="cl-b2cb68f8"><p class="cl-b2cb56ec"><span class="cl-b2c9c278">nombre</span></p></th><th class="cl-b2cb68ee"><p class="cl-b2cb56e2"><span class="cl-b2c9c278">edad</span></p></th><th class="cl-b2cb68f8"><p class="cl-b2cb56ec"><span class="cl-b2c9c278">grado</span></p></th><th class="cl-b2cb68ee"><p class="cl-b2cb56e2"><span class="cl-b2c9c278">Examen1</span></p></th><th class="cl-b2cb68ee"><p class="cl-b2cb56e2"><span class="cl-b2c9c278">Examen2</span></p></th><th class="cl-b2cb68ee"><p class="cl-b2cb56e2"><span class="cl-b2c9c278">Promedio</span></p></th><th class="cl-b2cb68ee"><p class="cl-b2cb56e2"><span class="cl-b2c9c278">Entrevista</span></p></th></tr></thead><tbody><tr style="overflow-wrap:break-word;"><td class="cl-b2cb6902"><p class="cl-b2cb56e2"><span class="cl-b2c9c278">1</span></p></td><td class="cl-b2cb6903"><p class="cl-b2cb56ec"><span class="cl-b2c9c278">Juan</span></p></td><td class="cl-b2cb6902"><p class="cl-b2cb56e2"><span class="cl-b2c9c278">20</span></p></td><td class="cl-b2cb6903"><p class="cl-b2cb56ec"><span class="cl-b2c9c278">C</span></p></td><td class="cl-b2cb6902"><p class="cl-b2cb56e2"><span class="cl-b2c9c278">3.8</span></p></td><td class="cl-b2cb6902"><p class="cl-b2cb56e2"><span class="cl-b2c9c278">3.9</span></p></td><td class="cl-b2cb6902"><p class="cl-b2cb56e2"><span class="cl-b2c9c278">3.9</span></p></td><td class="cl-b2cb6902"><p class="cl-b2cb56e2"><span class="cl-b2c9c278">TRUE</span></p></td></tr><tr style="overflow-wrap:break-word;"><td class="cl-b2cb6902"><p class="cl-b2cb56e2"><span class="cl-b2c9c278">2</span></p></td><td class="cl-b2cb6903"><p class="cl-b2cb56ec"><span class="cl-b2c9c278">Carlos</span></p></td><td class="cl-b2cb6902"><p class="cl-b2cb56e2"><span class="cl-b2c9c278">25</span></p></td><td class="cl-b2cb6903"><p class="cl-b2cb56ec"><span class="cl-b2c9c278">A</span></p></td><td class="cl-b2cb6902"><p class="cl-b2cb56e2"><span class="cl-b2c9c278">4.1</span></p></td><td class="cl-b2cb6902"><p class="cl-b2cb56e2"><span class="cl-b2c9c278">3.9</span></p></td><td class="cl-b2cb6902"><p class="cl-b2cb56e2"><span class="cl-b2c9c278">4.0</span></p></td><td class="cl-b2cb6902"><p class="cl-b2cb56e2"><span class="cl-b2c9c278">FALSE</span></p></td></tr><tr style="overflow-wrap:break-word;"><td class="cl-b2cb6902"><p class="cl-b2cb56e2"><span class="cl-b2c9c278">3</span></p></td><td class="cl-b2cb6903"><p class="cl-b2cb56ec"><span class="cl-b2c9c278">James</span></p></td><td class="cl-b2cb6902"><p class="cl-b2cb56e2"><span class="cl-b2c9c278">22</span></p></td><td class="cl-b2cb6903"><p class="cl-b2cb56ec"><span class="cl-b2c9c278">A</span></p></td><td class="cl-b2cb6902"><p class="cl-b2cb56e2"><span class="cl-b2c9c278">4.0</span></p></td><td class="cl-b2cb6902"><p class="cl-b2cb56e2"><span class="cl-b2c9c278">4.0</span></p></td><td class="cl-b2cb6902"><p class="cl-b2cb56e2"><span class="cl-b2c9c278">4.1</span></p></td><td class="cl-b2cb6902"><p class="cl-b2cb56e2"><span class="cl-b2c9c278">TRUE</span></p></td></tr><tr style="overflow-wrap:break-word;"><td class="cl-b2cb6902"><p class="cl-b2cb56e2"><span class="cl-b2c9c278">4</span></p></td><td class="cl-b2cb6903"><p class="cl-b2cb56ec"><span class="cl-b2c9c278">David</span></p></td><td class="cl-b2cb6902"><p class="cl-b2cb56e2"><span class="cl-b2c9c278">28</span></p></td><td class="cl-b2cb6903"><p class="cl-b2cb56ec"><span class="cl-b2c9c278">C</span></p></td><td class="cl-b2cb6902"><p class="cl-b2cb56e2"><span class="cl-b2c9c278">3.9</span></p></td><td class="cl-b2cb6902"><p class="cl-b2cb56e2"><span class="cl-b2c9c278">3.9</span></p></td><td class="cl-b2cb6902"><p class="cl-b2cb56e2"><span class="cl-b2c9c278">3.6</span></p></td><td class="cl-b2cb6902"><p class="cl-b2cb56e2"><span class="cl-b2c9c278">FALSE</span></p></td></tr><tr style="overflow-wrap:break-word;"><td class="cl-b2cb6902"><p class="cl-b2cb56e2"><span class="cl-b2c9c278">5</span></p></td><td class="cl-b2cb6903"><p class="cl-b2cb56ec"><span class="cl-b2c9c278">Jenny</span></p></td><td class="cl-b2cb6902"><p class="cl-b2cb56e2"><span class="cl-b2c9c278">21</span></p></td><td class="cl-b2cb6903"><p class="cl-b2cb56ec"><span class="cl-b2c9c278">B</span></p></td><td class="cl-b2cb6902"><p class="cl-b2cb56e2"><span class="cl-b2c9c278">4.0</span></p></td><td class="cl-b2cb6902"><p class="cl-b2cb56e2"><span class="cl-b2c9c278">3.8</span></p></td><td class="cl-b2cb6902"><p class="cl-b2cb56e2"><span class="cl-b2c9c278">3.7</span></p></td><td class="cl-b2cb6902"><p class="cl-b2cb56e2"><span class="cl-b2c9c278">TRUE</span></p></td></tr><tr style="overflow-wrap:break-word;"><td class="cl-b2cb6902"><p class="cl-b2cb56e2"><span class="cl-b2c9c278">6</span></p></td><td class="cl-b2cb6903"><p class="cl-b2cb56ec"><span class="cl-b2c9c278">Harold</span></p></td><td class="cl-b2cb6902"><p class="cl-b2cb56e2"><span class="cl-b2c9c278">23</span></p></td><td class="cl-b2cb6903"><p class="cl-b2cb56ec"><span class="cl-b2c9c278">B</span></p></td><td class="cl-b2cb6902"><p class="cl-b2cb56e2"><span class="cl-b2c9c278">4.3</span></p></td><td class="cl-b2cb6902"><p class="cl-b2cb56e2"><span class="cl-b2c9c278">3.6</span></p></td><td class="cl-b2cb6902"><p class="cl-b2cb56e2"><span class="cl-b2c9c278">4.6</span></p></td><td class="cl-b2cb6902"><p class="cl-b2cb56e2"><span class="cl-b2c9c278">TRUE</span></p></td></tr><tr style="overflow-wrap:break-word;"><td class="cl-b2cb6902"><p class="cl-b2cb56e2"><span class="cl-b2c9c278">7</span></p></td><td class="cl-b2cb6903"><p class="cl-b2cb56ec"><span class="cl-b2c9c278">Leonardo</span></p></td><td class="cl-b2cb6902"><p class="cl-b2cb56e2"><span class="cl-b2c9c278">25</span></p></td><td class="cl-b2cb6903"><p class="cl-b2cb56ec"><span class="cl-b2c9c278">A</span></p></td><td class="cl-b2cb6902"><p class="cl-b2cb56e2"><span class="cl-b2c9c278">3.6</span></p></td><td class="cl-b2cb6902"><p class="cl-b2cb56e2"><span class="cl-b2c9c278">4.0</span></p></td><td class="cl-b2cb6902"><p class="cl-b2cb56e2"><span class="cl-b2c9c278">3.5</span></p></td><td class="cl-b2cb6902"><p class="cl-b2cb56e2"><span class="cl-b2c9c278">TRUE</span></p></td></tr><tr style="overflow-wrap:break-word;"><td class="cl-b2cb6902"><p class="cl-b2cb56e2"><span class="cl-b2c9c278">8</span></p></td><td class="cl-b2cb6903"><p class="cl-b2cb56ec"><span class="cl-b2c9c278">John</span></p></td><td class="cl-b2cb6902"><p class="cl-b2cb56e2"><span class="cl-b2c9c278">20</span></p></td><td class="cl-b2cb6903"><p class="cl-b2cb56ec"><span class="cl-b2c9c278">C</span></p></td><td class="cl-b2cb6902"><p class="cl-b2cb56e2"><span class="cl-b2c9c278">3.7</span></p></td><td class="cl-b2cb6902"><p class="cl-b2cb56e2"><span class="cl-b2c9c278">4.0</span></p></td><td class="cl-b2cb6902"><p class="cl-b2cb56e2"><span class="cl-b2c9c278">3.6</span></p></td><td class="cl-b2cb6902"><p class="cl-b2cb56e2"><span class="cl-b2c9c278">FALSE</span></p></td></tr><tr style="overflow-wrap:break-word;"><td class="cl-b2cb6902"><p class="cl-b2cb56e2"><span class="cl-b2c9c278">9</span></p></td><td class="cl-b2cb6903"><p class="cl-b2cb56ec"><span class="cl-b2c9c278">Ana</span></p></td><td class="cl-b2cb6902"><p class="cl-b2cb56e2"><span class="cl-b2c9c278">21</span></p></td><td class="cl-b2cb6903"><p class="cl-b2cb56ec"><span class="cl-b2c9c278">C</span></p></td><td class="cl-b2cb6902"><p class="cl-b2cb56e2"><span class="cl-b2c9c278">3.8</span></p></td><td class="cl-b2cb6902"><p class="cl-b2cb56e2"><span class="cl-b2c9c278">3.9</span></p></td><td class="cl-b2cb6902"><p class="cl-b2cb56e2"><span class="cl-b2c9c278">3.8</span></p></td><td class="cl-b2cb6902"><p class="cl-b2cb56e2"><span class="cl-b2c9c278">FALSE</span></p></td></tr><tr style="overflow-wrap:break-word;"><td class="cl-b2cb690c"><p class="cl-b2cb56e2"><span class="cl-b2c9c278">10</span></p></td><td class="cl-b2cb690d"><p class="cl-b2cb56ec"><span class="cl-b2c9c278">Luz</span></p></td><td class="cl-b2cb690c"><p class="cl-b2cb56e2"><span class="cl-b2c9c278">20</span></p></td><td class="cl-b2cb690d"><p class="cl-b2cb56ec"><span class="cl-b2c9c278">C</span></p></td><td class="cl-b2cb690c"><p class="cl-b2cb56e2"><span class="cl-b2c9c278">3.8</span></p></td><td class="cl-b2cb690c"><p class="cl-b2cb56e2"><span class="cl-b2c9c278">3.8</span></p></td><td class="cl-b2cb690c"><p class="cl-b2cb56e2"><span class="cl-b2c9c278">3.7</span></p></td><td class="cl-b2cb690c"><p class="cl-b2cb56e2"><span class="cl-b2c9c278">FALSE</span></p></td></tr></tbody></table></div>
 <pre class="r"><code>library(formattable)
 
 formattable(df, list(

diff --git a/docs/taller431.html b/docs/taller431.html
@@ -574,6 +574,10 @@ o la marca KT. Con el fin de tomar una decisión basada en evidencias
 estadísticas, deciden realizar un experimento en el que usan 12
 neumáticos de cada marca. Los neumáticos se utilizan hasta su
 terminación. Los resultados obtenidos son los siguientes:</p>
+<pre>
+FB =c(41.8, 41.6, 31.5, 48.7, 40.8, 31.2, 36.5, 36.2, 32.8, 36.3, 38.6, 30.5)
+KT =c(40.5, 38.4, 44.0, 34.9, 44.0, 44.7, 44.0, 47.1, 39.8, 43.9, 44.2, 40.2)
+</pre>
 <pre class="r"><code>library(ggplot2)
 FB =c(41.8, 41.6, 31.5, 48.7, 40.8, 31.2, 36.5, 36.2, 32.8, 36.3, 38.6, 30.5)
 KT =c(40.5, 38.4, 44.0, 34.9, 44.0, 44.7, 44.0, 47.1, 39.8, 43.9, 44.2, 40.2)
@@ -603,6 +607,10 @@ Problema 3
 métodos diferentes de realizar el ensamble de una casa prefabricada.
 Para comprobarlo recoge información la producción de ambos métodos que
 se presentan a continuación: \</p>
+<pre>
+x1 = c(32, 37, 35, 28, 41, 44, 35, 31, 34) # Procedimiento estándar
+x2 = c(35, 31, 29, 25, 34, 40, 27, 32, 31) # Nuevo procedimiento
+</pre>
 <pre class="r"><code>x1 = c(32, 37, 35, 28, 41, 44, 35, 31, 34) # Procedimiento estándar:
 x2 = c(35, 31, 29, 25, 34, 40, 27, 32, 31) # Nuevo procedimiento:
 
@@ -733,12 +741,14 @@ de códigos de barra de 7 pulgadas que pueden leerse por segundo. Sea
 segundo con el dispositivo nuevo y <span
 class="math inline">\(X_{2}\)</span> el correspondiente al dispositivo
 antiguo.</p>
-<p><span class="math inline">\(n_{1}=61\)</span> ; <span
+<ul>
+<li><p><span class="math inline">\(n_{1}=61\)</span> ; <span
 class="math inline">\(\bar{x}_{1}=40\)</span> ; <span
-class="math inline">\(s^{2}_{1}=24.9\)</span> <span
-class="math inline">\(n_{2}=61\)</span> ; <span
+class="math inline">\(s^{2}_{1}=24.9\)</span></p></li>
+<li><p><span class="math inline">\(n_{2}=61\)</span> ; <span
 class="math inline">\(\bar{x}_{2}=29\)</span> ; <span
-class="math inline">\(s^{2}_{2}=22.7\)</span></p>
+class="math inline">\(s^{2}_{2}=22.7\)</span></p></li>
+</ul>
 <p>De acuerdo con la información suministrada, es posible preferir
 alguno de ellos?. En caso de poderlo realizar con cual se quedaría?
 Justifique su respuesta. En cada caso determine las pruebas de
@@ -911,9 +921,9 @@ artículos defectuosos (D) y no defectuosos (N) corresponde a la
 producción de uno de los turnos.</p>
 <pre class="r"><code>inspeccion = sample(c(&quot;D&quot;, &quot;N&quot;), 50, replace = TRUE)
 inspeccion</code></pre>
-<pre><code>##  [1] &quot;N&quot; &quot;D&quot; &quot;D&quot; &quot;D&quot; &quot;D&quot; &quot;N&quot; &quot;N&quot; &quot;N&quot; &quot;N&quot; &quot;N&quot; &quot;N&quot; &quot;D&quot; &quot;D&quot; &quot;D&quot; &quot;D&quot; &quot;D&quot; &quot;N&quot; &quot;D&quot; &quot;D&quot;
-## [20] &quot;N&quot; &quot;D&quot; &quot;D&quot; &quot;D&quot; &quot;D&quot; &quot;D&quot; &quot;D&quot; &quot;N&quot; &quot;D&quot; &quot;N&quot; &quot;D&quot; &quot;N&quot; &quot;D&quot; &quot;N&quot; &quot;N&quot; &quot;D&quot; &quot;N&quot; &quot;N&quot; &quot;D&quot;
-## [39] &quot;D&quot; &quot;D&quot; &quot;D&quot; &quot;D&quot; &quot;N&quot; &quot;N&quot; &quot;D&quot; &quot;D&quot; &quot;D&quot; &quot;D&quot; &quot;D&quot; &quot;D&quot;</code></pre>
+<pre><code>##  [1] &quot;D&quot; &quot;N&quot; &quot;N&quot; &quot;N&quot; &quot;N&quot; &quot;D&quot; &quot;N&quot; &quot;D&quot; &quot;N&quot; &quot;D&quot; &quot;D&quot; &quot;N&quot; &quot;N&quot; &quot;N&quot; &quot;N&quot; &quot;N&quot; &quot;D&quot; &quot;D&quot; &quot;D&quot;
+## [20] &quot;N&quot; &quot;D&quot; &quot;N&quot; &quot;D&quot; &quot;N&quot; &quot;N&quot; &quot;N&quot; &quot;D&quot; &quot;N&quot; &quot;N&quot; &quot;D&quot; &quot;N&quot; &quot;N&quot; &quot;N&quot; &quot;D&quot; &quot;D&quot; &quot;D&quot; &quot;D&quot; &quot;D&quot;
+## [39] &quot;D&quot; &quot;D&quot; &quot;D&quot; &quot;N&quot; &quot;D&quot; &quot;N&quot; &quot;D&quot; &quot;D&quot; &quot;N&quot; &quot;D&quot; &quot;D&quot; &quot;N&quot;</code></pre>
 <p>Se puede afirmar que los datos no presentan patrón alguno y que la
 generación de artículos defectuosos se debe al azar? . Utilice un <span
 class="math inline">\(\alpha= 0.05\)</span>.</p>

diff --git a/docs/codigo13.html b/docs/codigo13.html
@@ -1021,10 +1021,17 @@ fig3 </code></pre>
 <pre class="r"><code>fig=ggplot(data = diamonds, aes(x = cut, fill = color)) + 
       geom_bar(colour= &quot;black&quot;, size = 0.3 ) +  
   coord_polar()</code></pre>
-<pre><code>Warning: Using `size` aesthetic for lines was deprecated in ggplot2 3.4.0.
-ℹ Please use `linewidth` instead.
-This warning is displayed once every 8 hours.
-Call `lifecycle::last_lifecycle_warnings()` to see where this warning was generated.</code></pre>
+<pre><code>Warning: Using `size` aesthetic for
+lines was deprecated in
+ggplot2 3.4.0.
+ℹ Please use `linewidth`
+  instead.
+This warning is displayed
+once every 8 hours.
+Call
+`lifecycle::last_lifecycle_warnings()`
+to see where this warning was
+generated.</code></pre>
 <pre class="r"><code>fig</code></pre>
 <p><img src="codigo13_files/figure-html/unnamed-chunk-31-1.png" width="672" /></p>
 <pre class="r"><code># Libraries

diff --git a/docs/recurso43.html b/docs/recurso43.html
@@ -2968,9 +2968,10 @@ class="uri">https://cran.r-project.org/web/views/Distributions.html</a></p>
 <p><br/><br/></p>
 </div>
 </div>
-<div id="presentación" class="section level1">
-<h1><strong>Presentación</strong></h1>
+<div id="presentaciones" class="section level1">
+<h1><strong>Presentaciones</strong></h1>
 <iframe src="pdf/P-PruebasH.pdf" width="100%" height="500"></iframe>
+<iframe src="pdf/NoParametricas2.pdf" width="100%" height="500"></iframe>
 </div>
 <div id="taller-435" class="section level1">
 <h1><strong>Taller 435</strong></h1>
